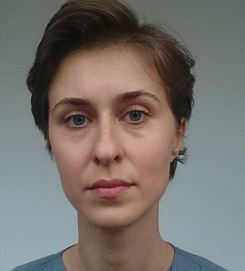
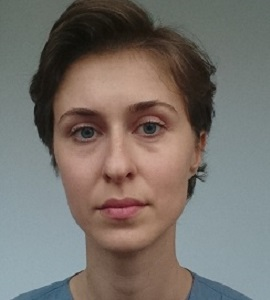
pozele aranjate de Andrei, modificat width la 270

diff --git a/index.html b/index.html
@@ -157,7 +157,7 @@
 				<div > 
 					<div class="image box">
 						<a href="https://cs.unibuc.ro/~pirofti/">
-						<img src="images/paul.jpg" alt="Paul Irofti"  width="260" height="300" />
+						<img src="images/paul.jpg" alt="Paul Irofti"  width="270" height="300" />
 						</a>
 					</div>
 					<h4><a href="https://cs.unibuc.ro/~pirofti/">PAUL IROFTI</a></h4>
@@ -166,7 +166,7 @@
 				<div >
 					<div class="image box">
 						<a href="https://cs.unibuc.ro/~lleustean/">
-						<img src="images/leo.jpg" alt="Leustean Laurentiu"  width="260" height="300" />
+						<img src="images/leo.jpg" alt="Leustean Laurentiu"  width="270" height="300" />
 						</a>
 					</div>
 					<h4><a href="https://cs.unibuc.ro/~lleustean/">LAUREN&#354;IU LEU&#350;TEAN</a></h4>
